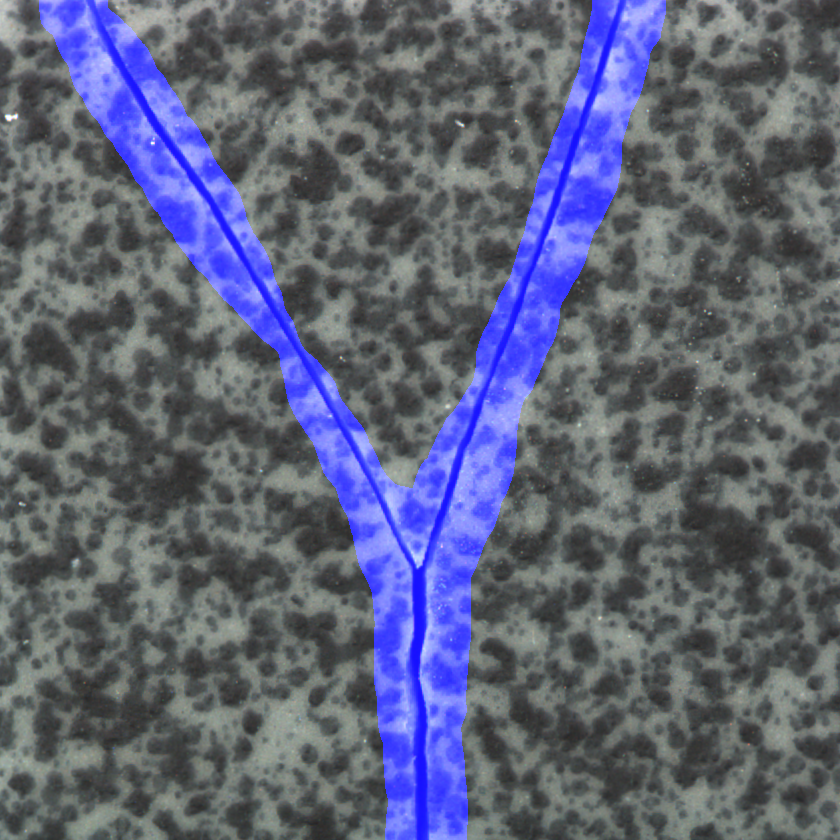
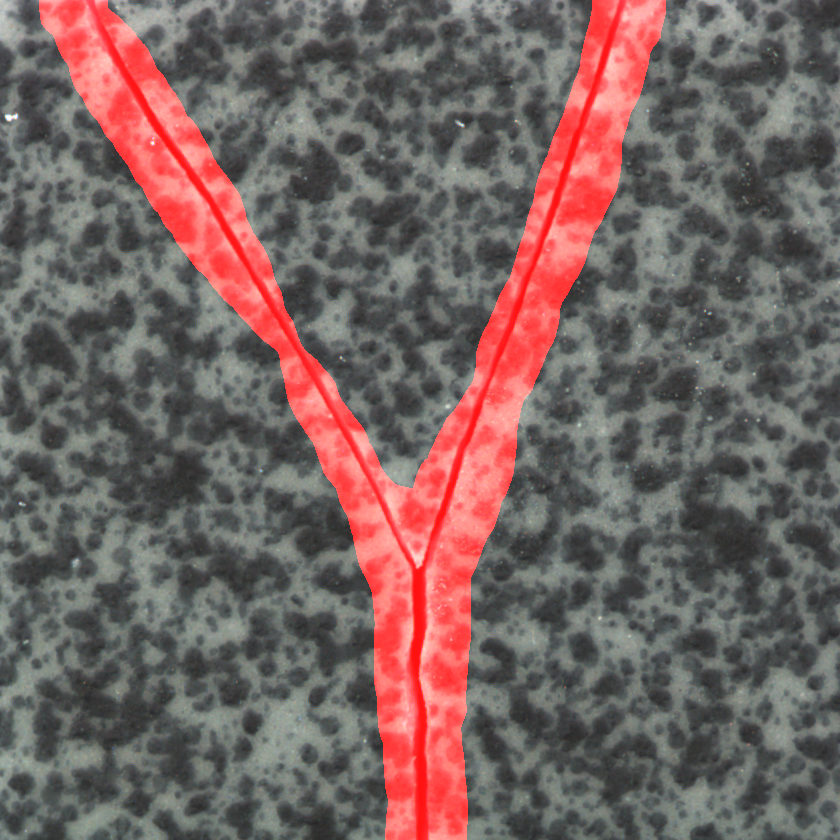
fix combine map

Changed region(s): [[0.031, 0.0, 0.8048, 1.0]]

diff --git a/abnormalnet.py b/abnormalnet.py
@@ -427,8 +427,7 @@ def single_test():
         cv_source = cv2.resize(cv_source, (map_combined.shape[1], map_combined.shape[0]))
         #cv2.imshow("source", cv_source)
         cv_combine = copy.deepcopy(cv_source)
-        cv_combine[:,:,0] = cv_combine[:,:,0] + cv_map_threshold
-        cv_combine[:,:,0][cv_map_threshold == 255]=255
+        cv_combine[:,:,2][cv_map_threshold == 255]=255
         cv2.imwrite(f"combine_{basename}", cv_combine)
         #cv2.waitKey(0)
 
